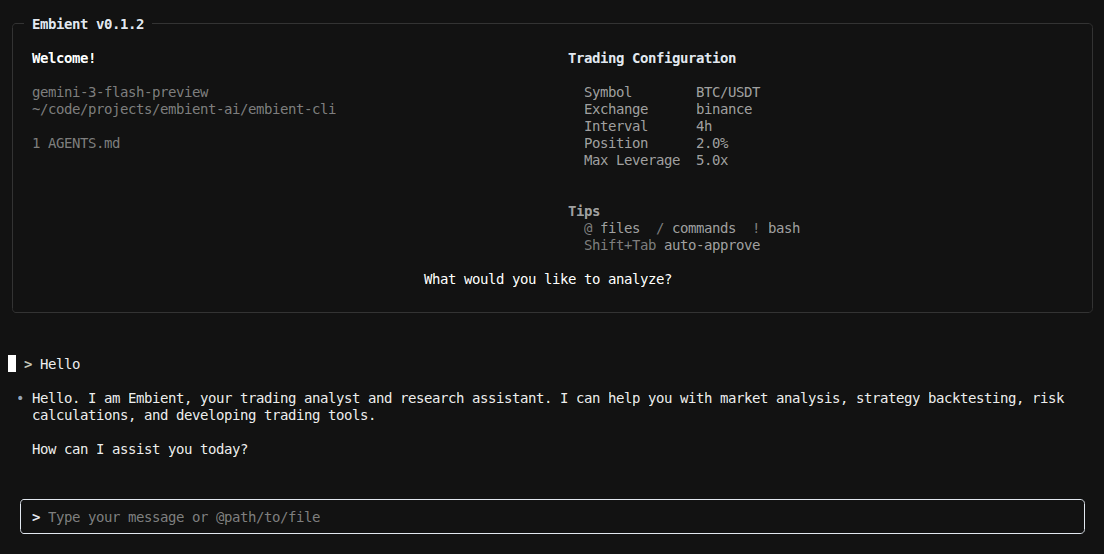
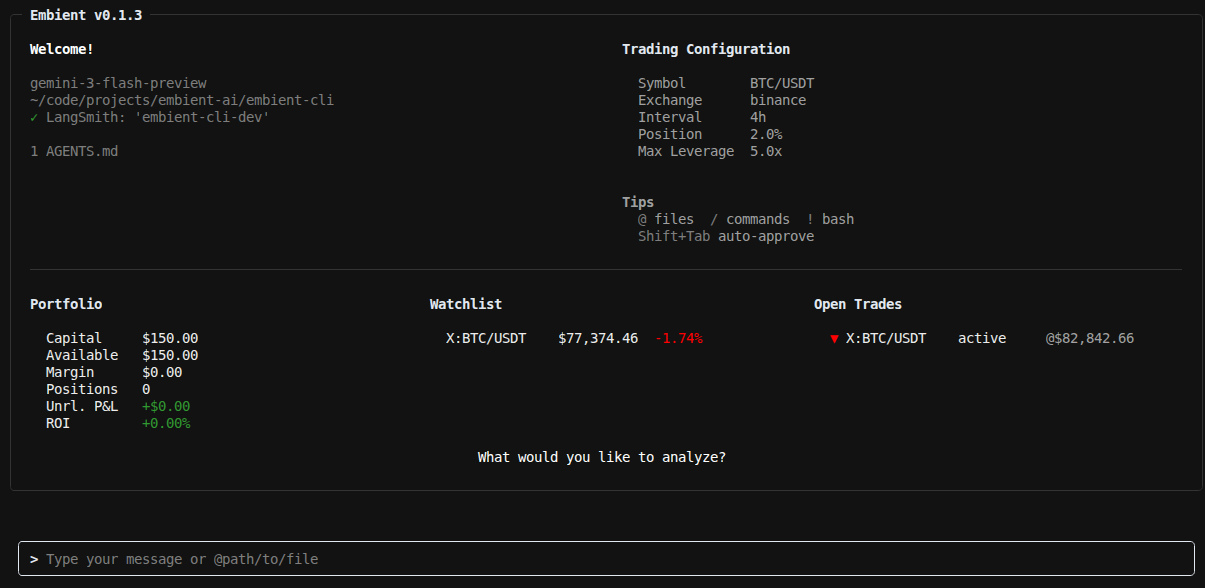
fix: schema upgrade

diff --git a/embient/clients/basement.py b/embient/clients/basement.py
@@ -373,12 +373,17 @@ class BasementClient:
 
         Returns:
             Portfolio summary dictionary with fields:
+            - account_balance: Total account balance from profile
+            - available_balance: Available balance for trading
+            - margin_used: Margin locked in open positions
             - open_positions: List of open position dicts
             - total_positions: Number of open positions
-            - total_capital_allocated: Total capital allocated
-            - total_unrealized_pnl: Total unrealized P&L
+            - total_unrealized_pnl: Total unrealized P&L (live-calculated)
             - total_roi_percentage: Total ROI percentage
-            - total_margin_used: Total margin used
+            - total_realized_pnl: Sum of realized P&L across closed trades
+            - win_rate: Win rate percentage across closed trades
+            - total_closed_trades: Total number of closed trades
+            - avg_risk_reward: Average risk-reward ratio
             Or None on failure
         """
         try:

diff --git a/embient/_version.py b/embient/_version.py
@@ -1,3 +1,3 @@
 """Version information for Embient CLI."""
 
-__version__ = "0.1.2"
+__version__ = "0.1.3"

diff --git a/CLAUDE.md b/CLAUDE.md
@@ -272,8 +272,13 @@ signals = await basement_client.get_trading_signals(token, status="active", tick
 result = await basement_client.create_trading_signal(token, **signal_data)
 result = await basement_client.update_trading_signal(token, signal_id, **updates)
 
-# User profile
+# User profile & portfolio
 profile = await basement_client.get_user_profile(token)
+portfolio = await basement_client.get_portfolio_summary(token)
+
+# Favorite tickers & stats
+favorites = await basement_client.get_favorite_tickers(token)
+stats = await basement_client.get_ticker_stats(token, "X:BTC/USDT")
 
 # Economics calendar
 events = await basement_client.get_economics_calendar(token, from_date="2025-07-01", to_date="2025-07-07", impact="High")
